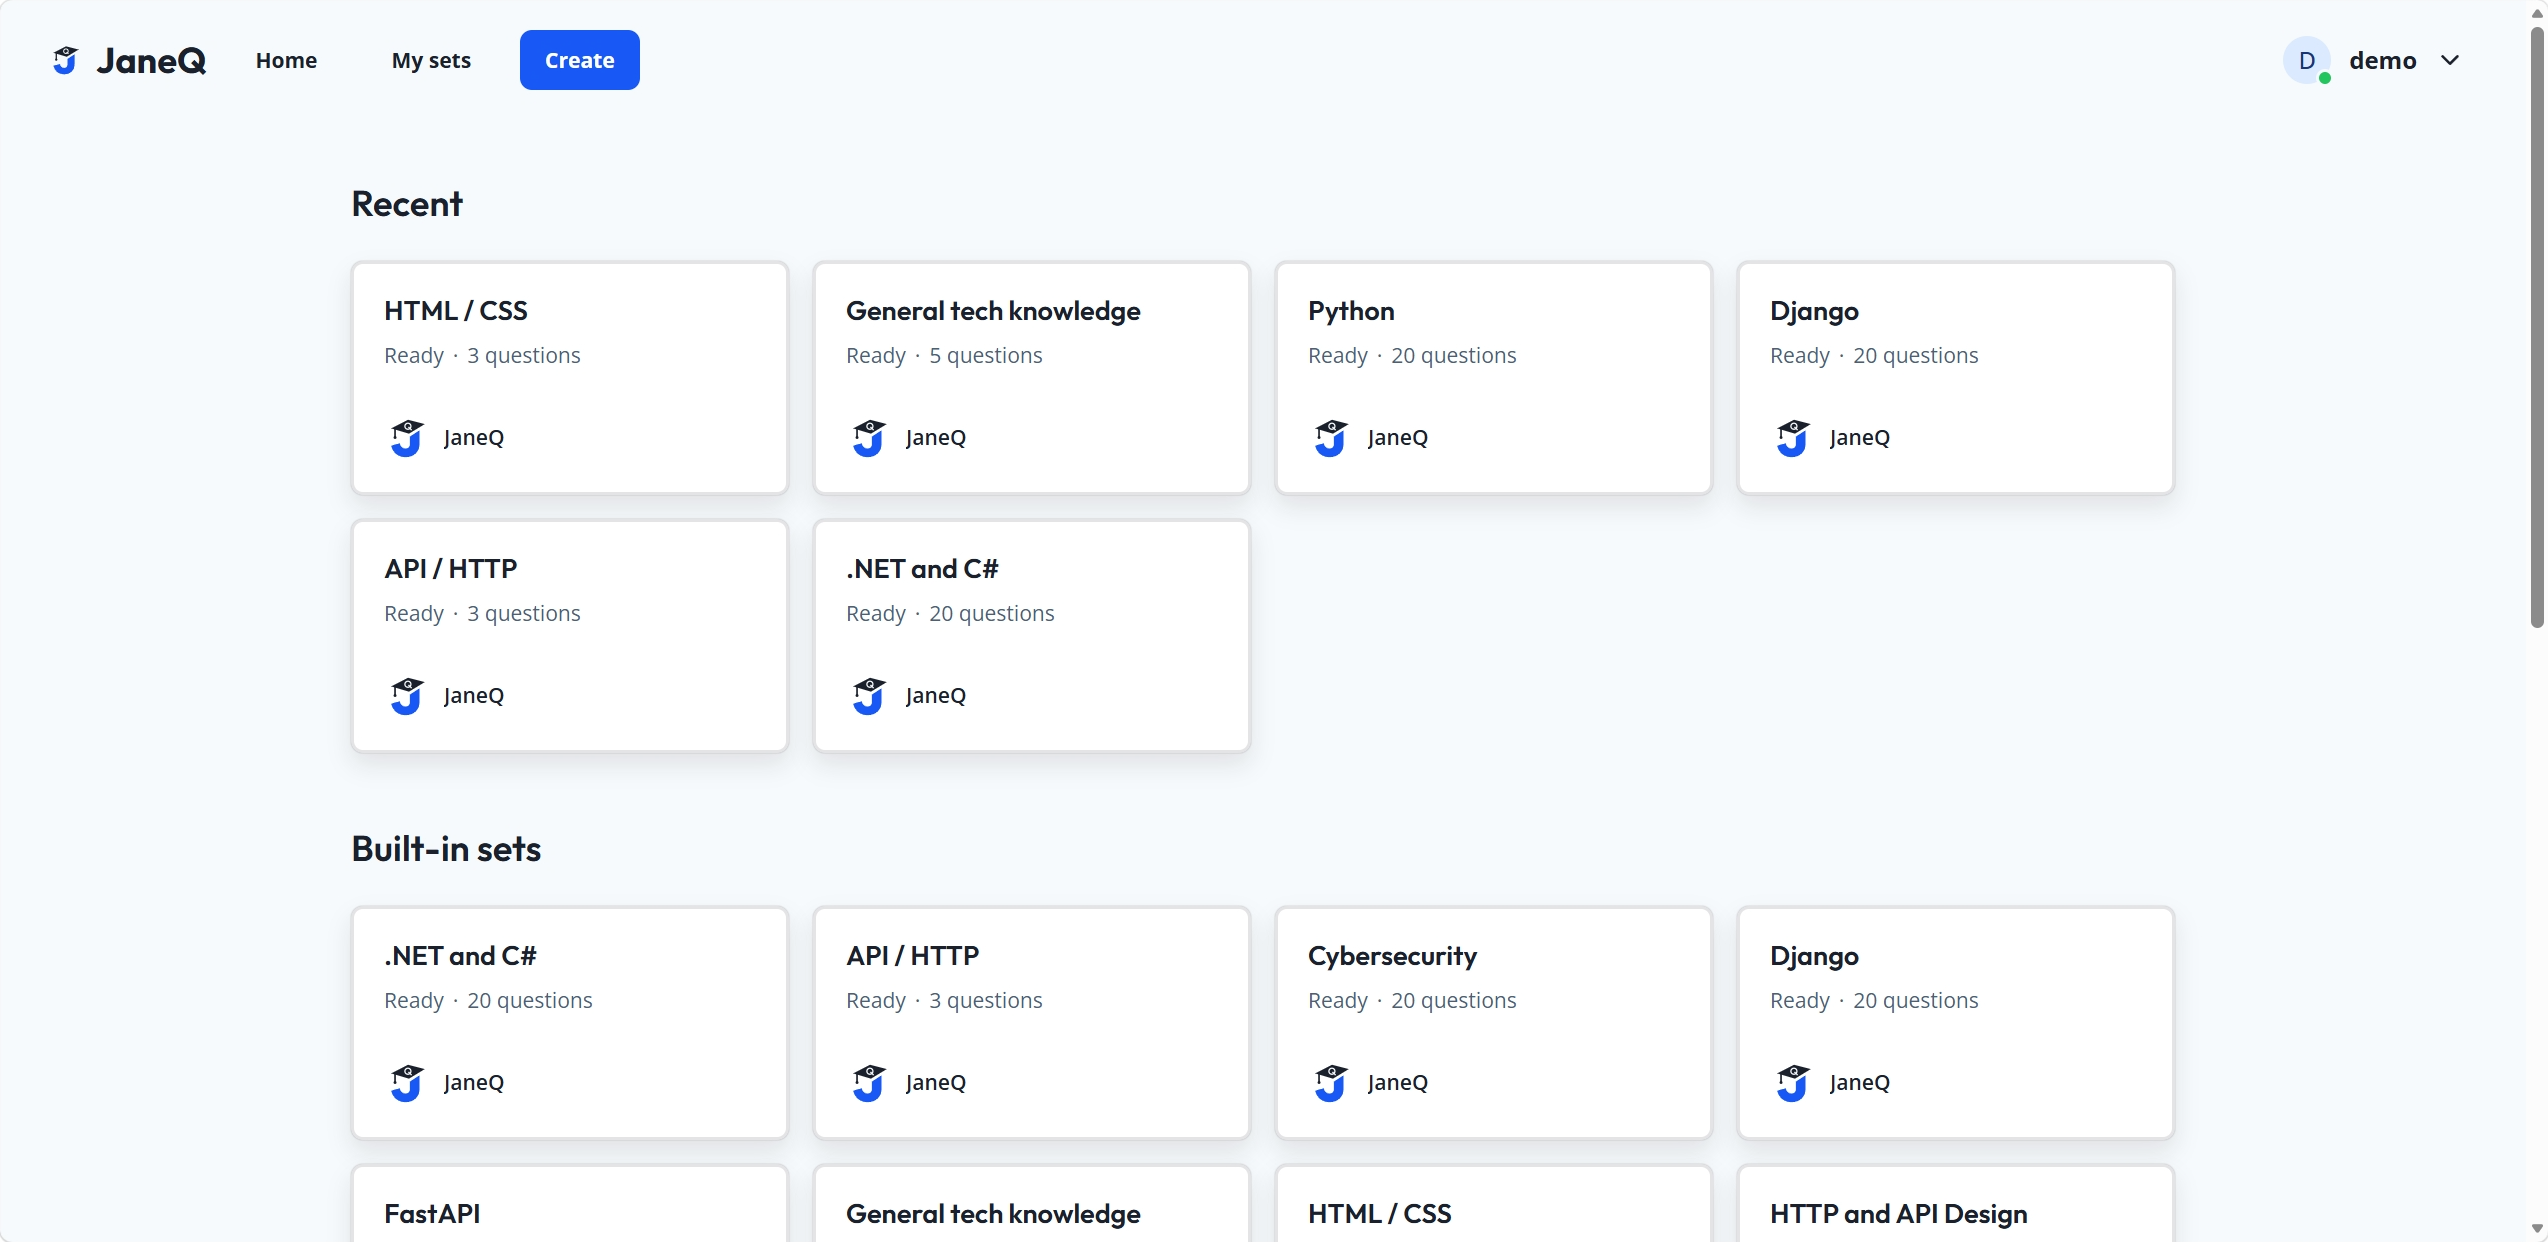
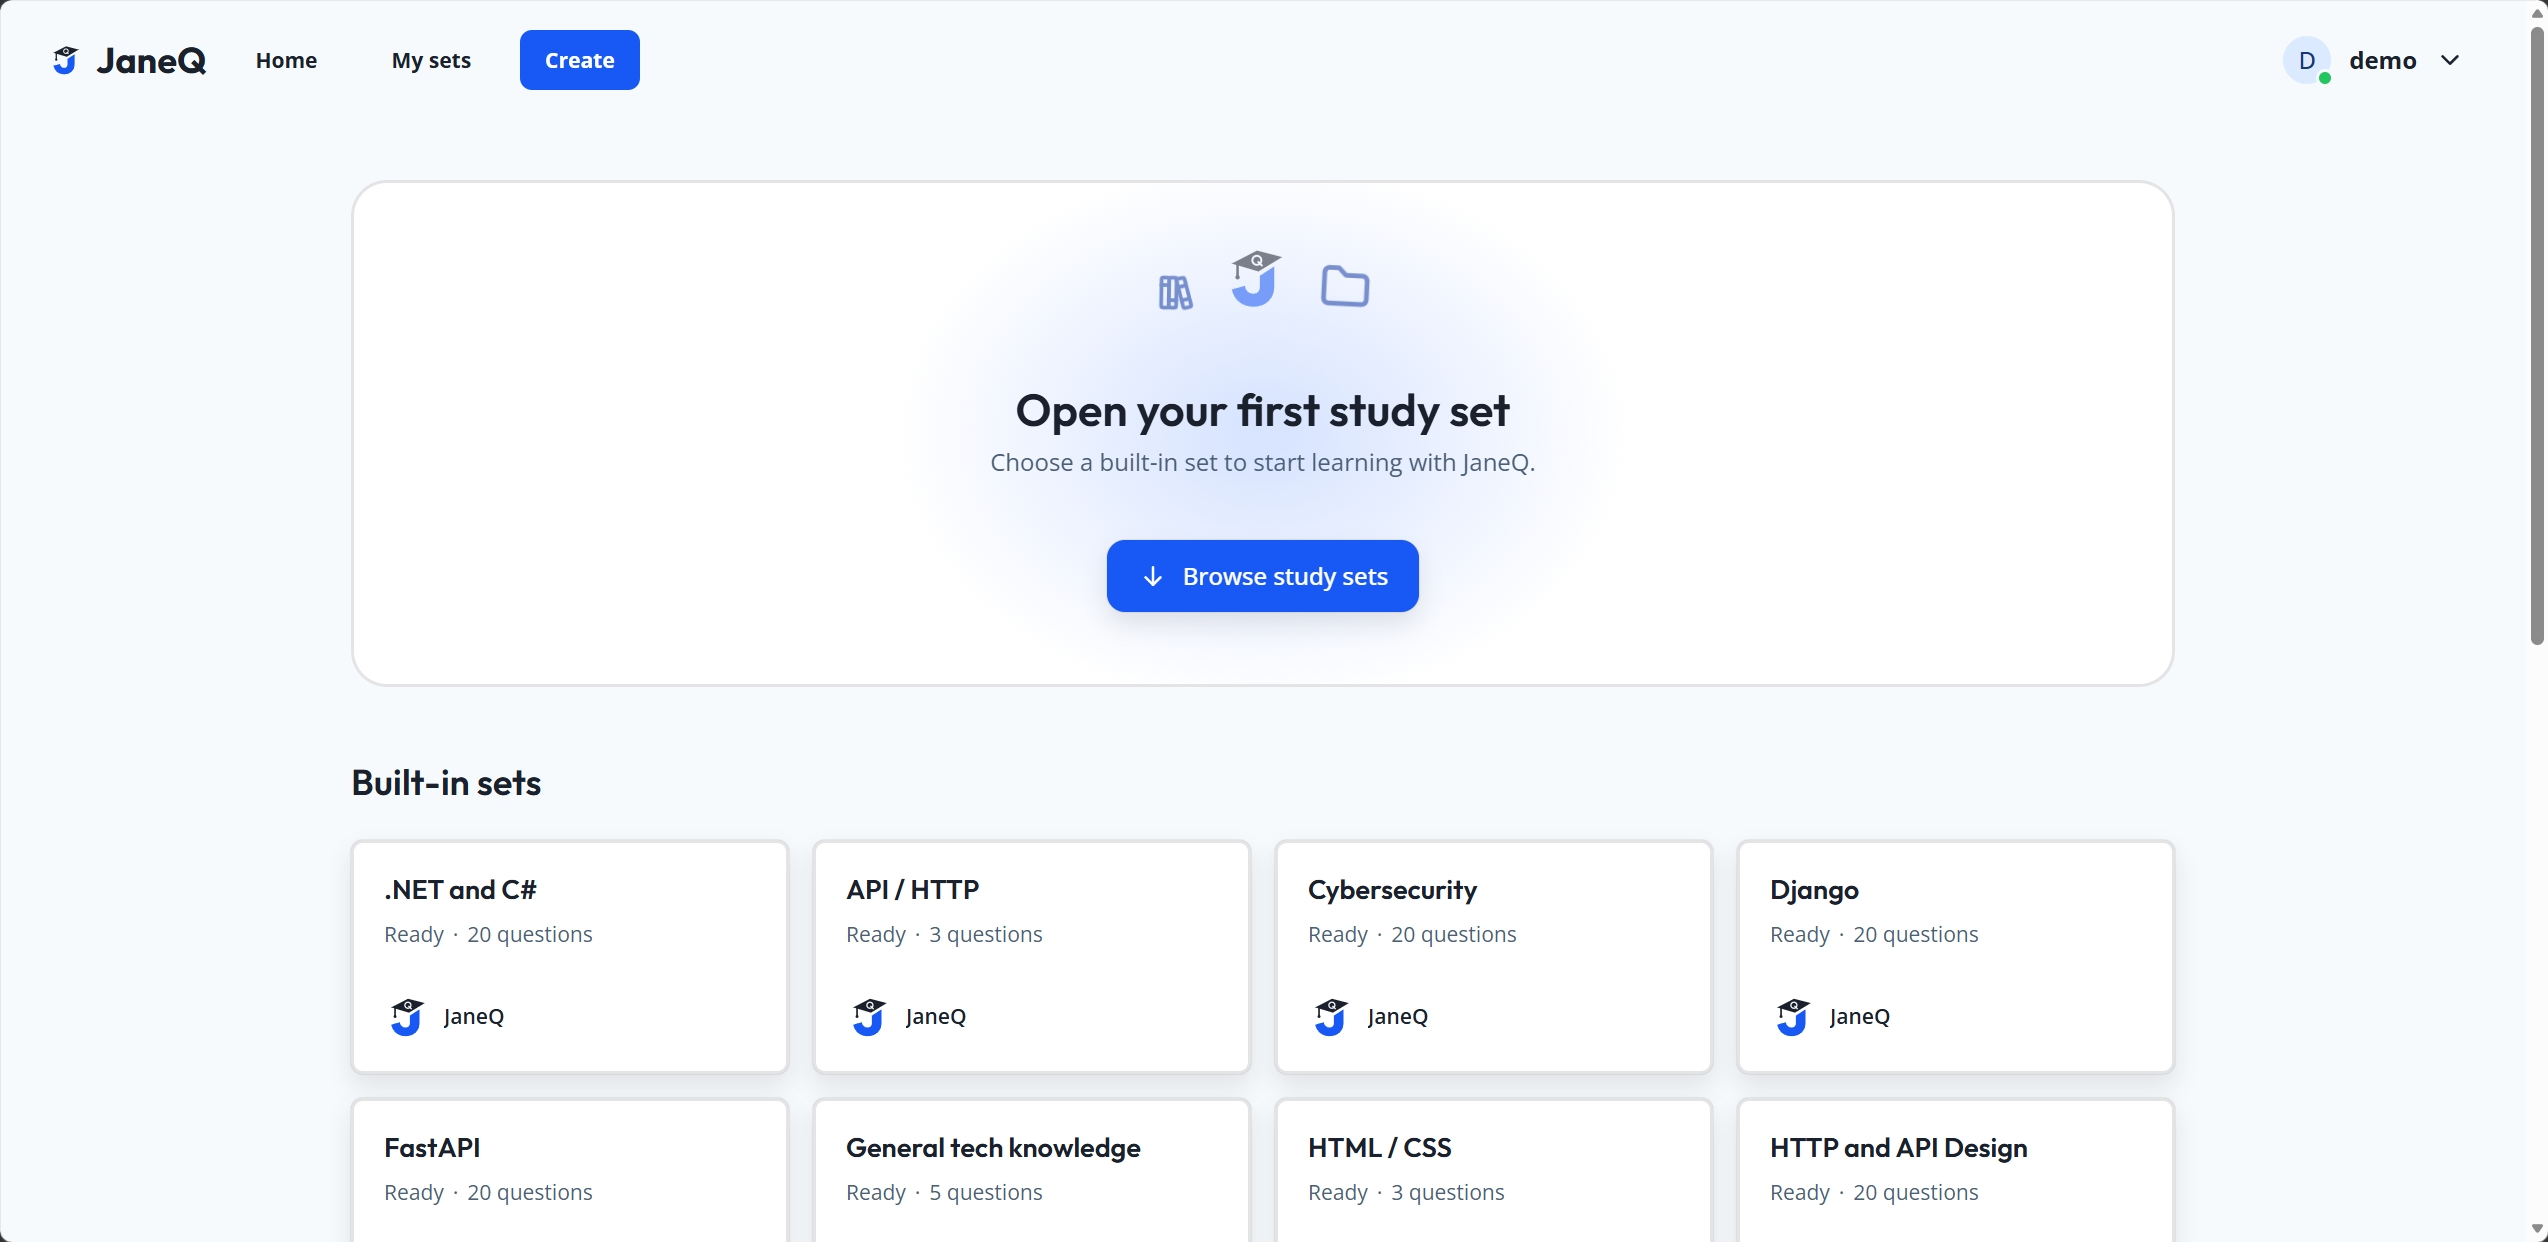
fix: update README image

diff --git a/README.md b/README.md
@@ -16,7 +16,7 @@
   <a href="#documentation">Documentation</a>
 </p>
 
-![JaneQ Home showing recently opened study sets and the built-in question bank](docs/readme/home.png)
+![JaneQ Home with a prompt to open your first study set and a list of built-in sets](docs/readme/home.png)
 
 ## Features
 
@@ -81,7 +81,7 @@ JaneQ seeds `backend/data/janeq-mvp.sqlite3` on first startup. Use `JANEQ_DB_PAT
 
 | Area | Guides |
 | --- | --- |
-| Library | [Sign in and Home](docs/features/login-home.md) · [Built-in study sets](docs/features/builtin-sets.md) · [Missing pages and sets](docs/features/login-home.md#page-and-study-set-not-found) |
+| Library | [Sign in and Home](docs/features/login-home.md) · [Account registration plan](docs/features/account-registration.md) · [Built-in study sets](docs/features/builtin-sets.md) · [Missing pages and sets](docs/features/login-home.md#page-and-study-set-not-found) |
 | Study modes | [Study Set and Learn](docs/features/learn.md) · [Study set URLs and preview loading](docs/features/learn.md#study-set-urls-and-preview-loading) · [Test, Results, and PDF export](docs/features/test-results.md) |
 | Authoring | [My sets and Create/Edit](docs/features/study-set-authoring.md) |
 | Implementation | [Database reference](docs/database.md) · [Frontend UI guide](docs/frontend.md) · [Branding](docs/features/branding.md) |
